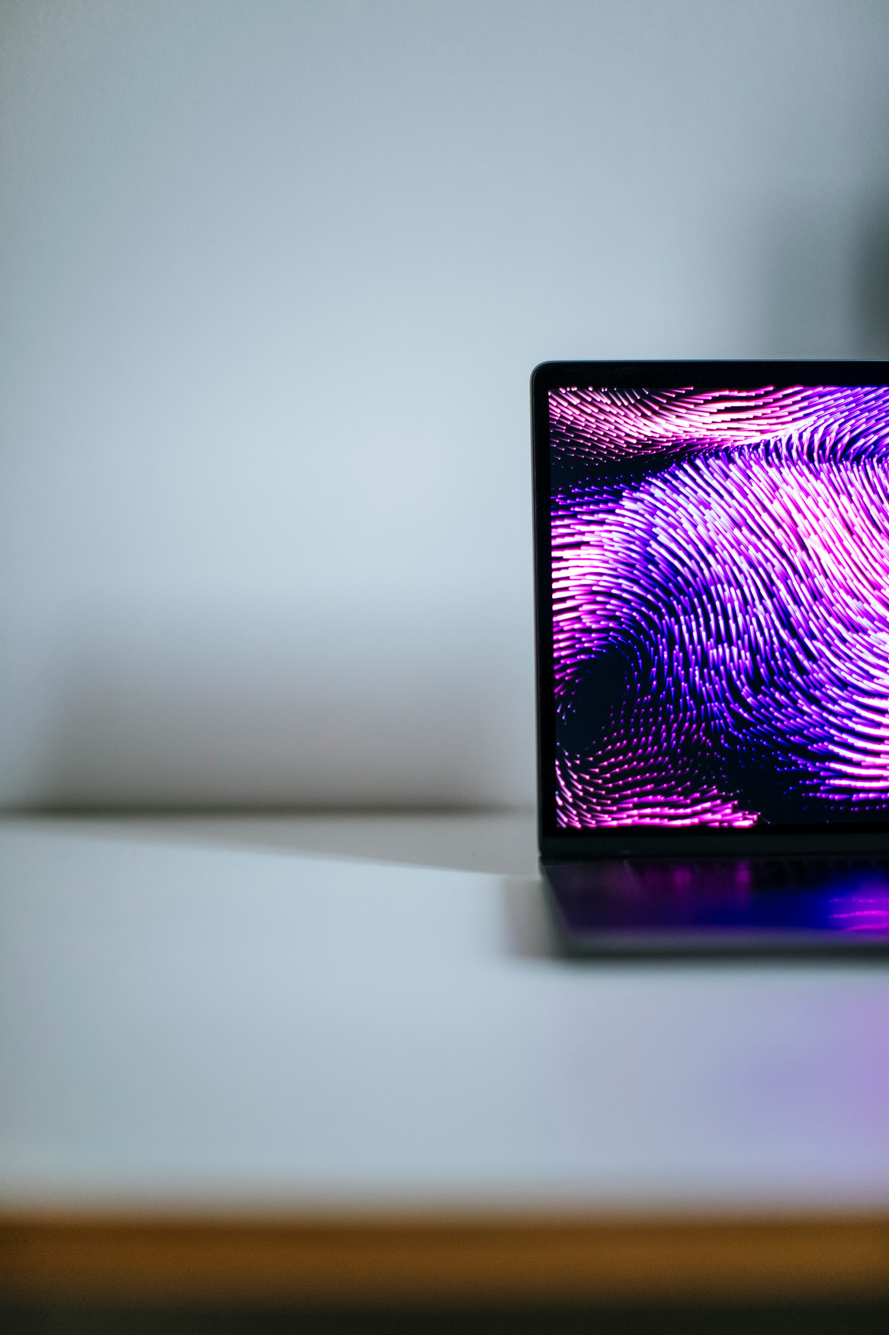
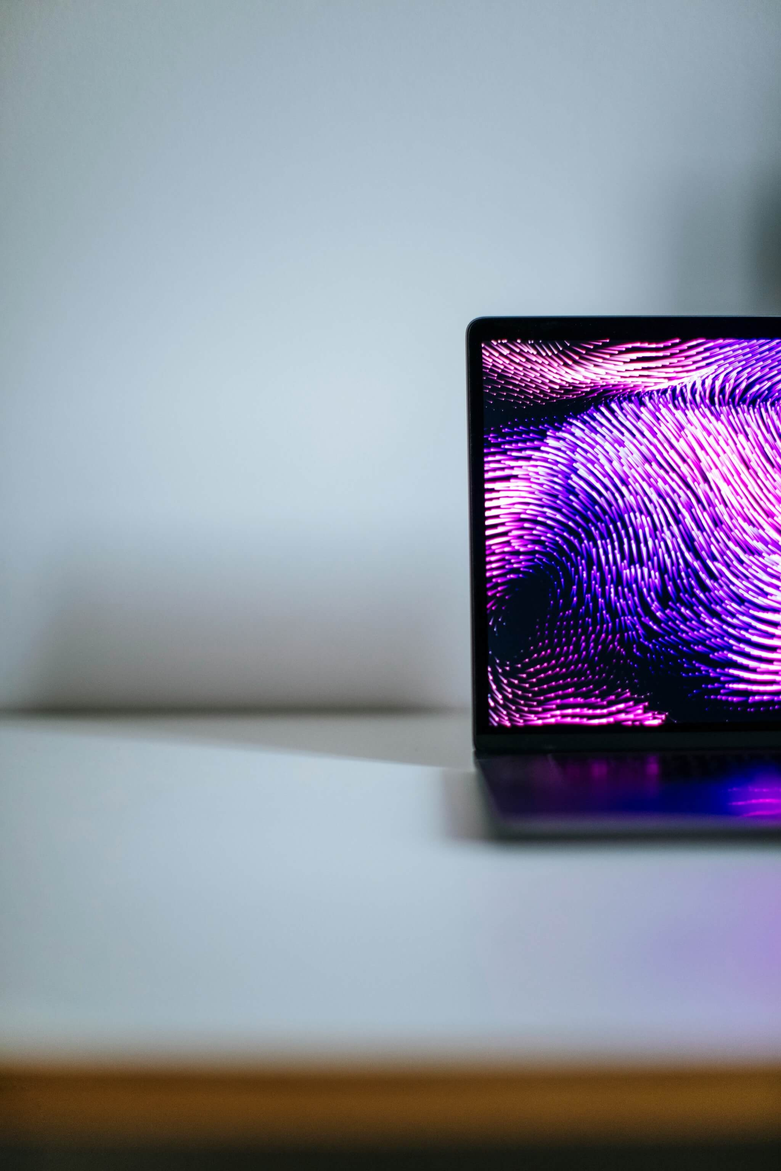
optimize images, css fixes

Changed region(s): [[0.625, 0.2812, 1.0, 0.5938]]

diff --git a/src/styles/global.css b/src/styles/global.css
@@ -218,9 +218,9 @@ header {
 }
 
 nav {
-    max-width: 1200px;
+    max-width: 1400px;
     margin: 0 auto;
-    padding: 0 1.5rem;
+    padding: 0 2rem;
     display: flex;
     justify-content: space-between;
     align-items: center;
